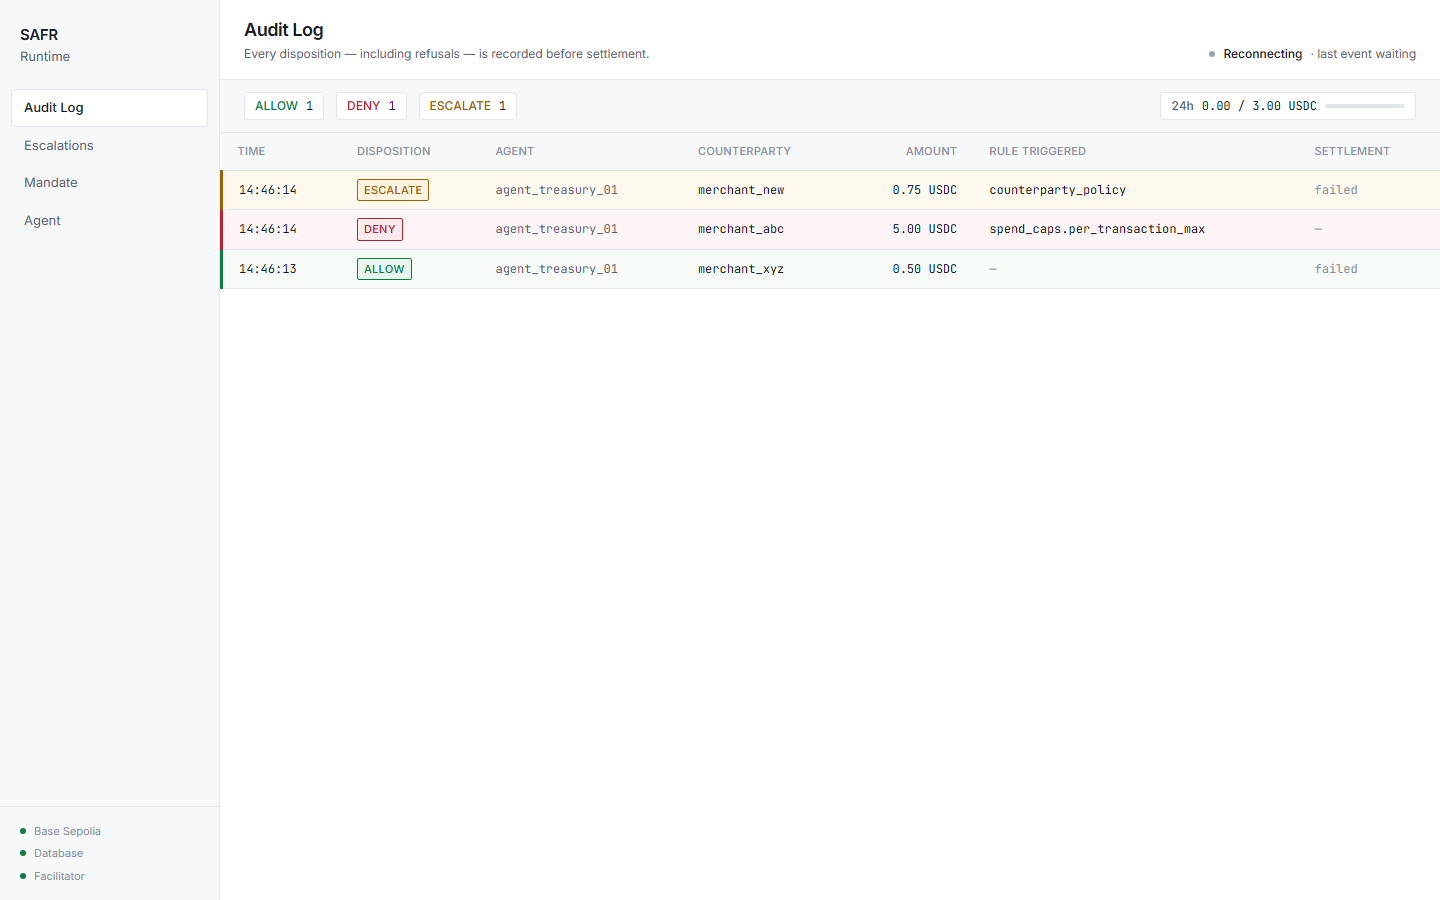
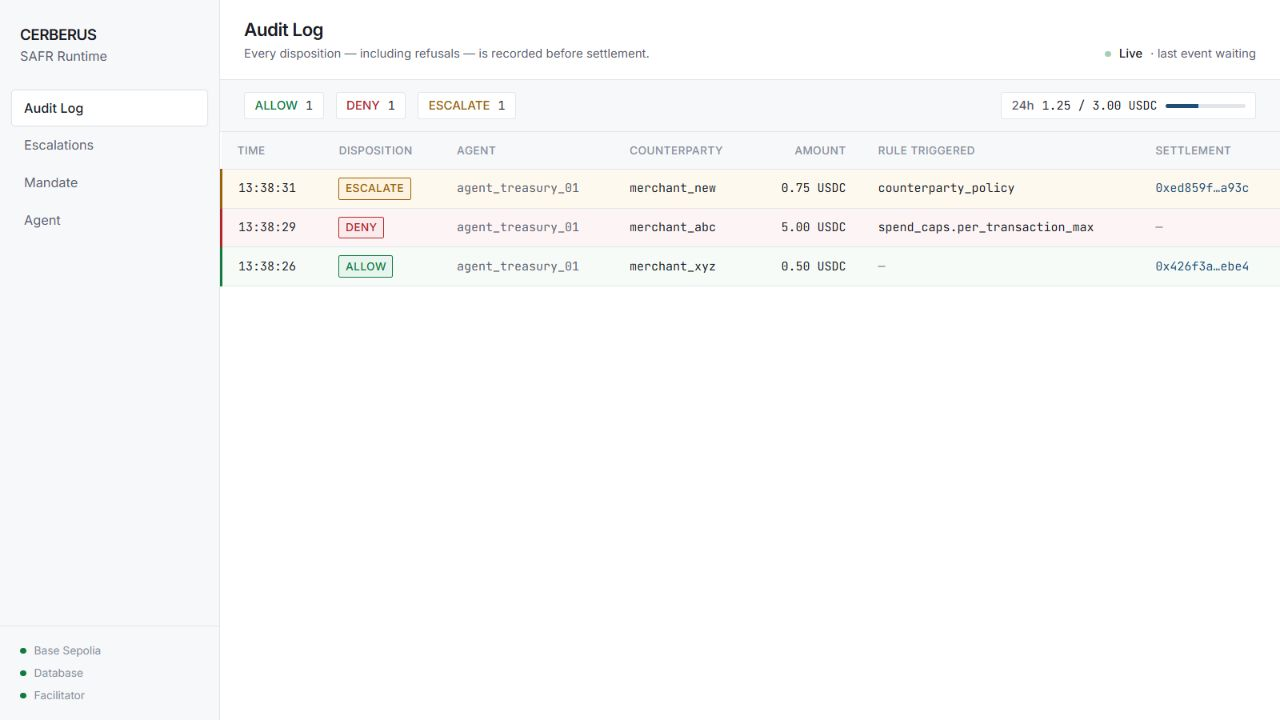
Finalize live evidence captures

diff --git a/docs/submission/EVIDENCE.md b/docs/submission/EVIDENCE.md
@@ -41,12 +41,11 @@ embedded in the README).
 
 ### Note on `01-audit-log.png`
 
-The current live indicator reads "Reconnecting" in this capture. That is an artefact of the
-headless screenshot, not a defect: the page holds an SSE connection open, which never
-settles inside a headless frame grab. On a real browser it reads **Live** — see the
-first frame of the demo video. The final `01-audit-log.png` must be retaken manually
-in a real browser after strict capture passes; do not use the headless version in the
-PDF because a judge may reasonably read it as a broken connection.
+The final image was captured through a real browser after strict validation passed.
+It visibly shows **Live**, ALLOW / DENY / ESCALATE, both final settlement hashes, and
+the 1.25 / 3.00 USDC rolling-spend strip. The headless capture is deliberately not
+used for this page because its open SSE connection prevents Chrome from terminating
+reliably.
 
 ---
 
